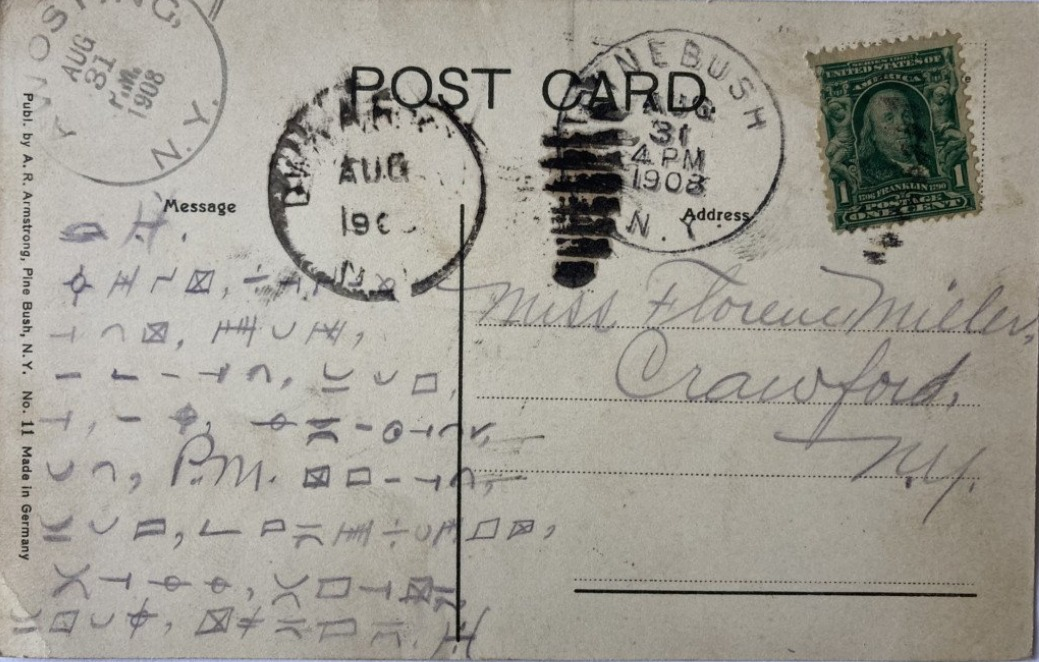
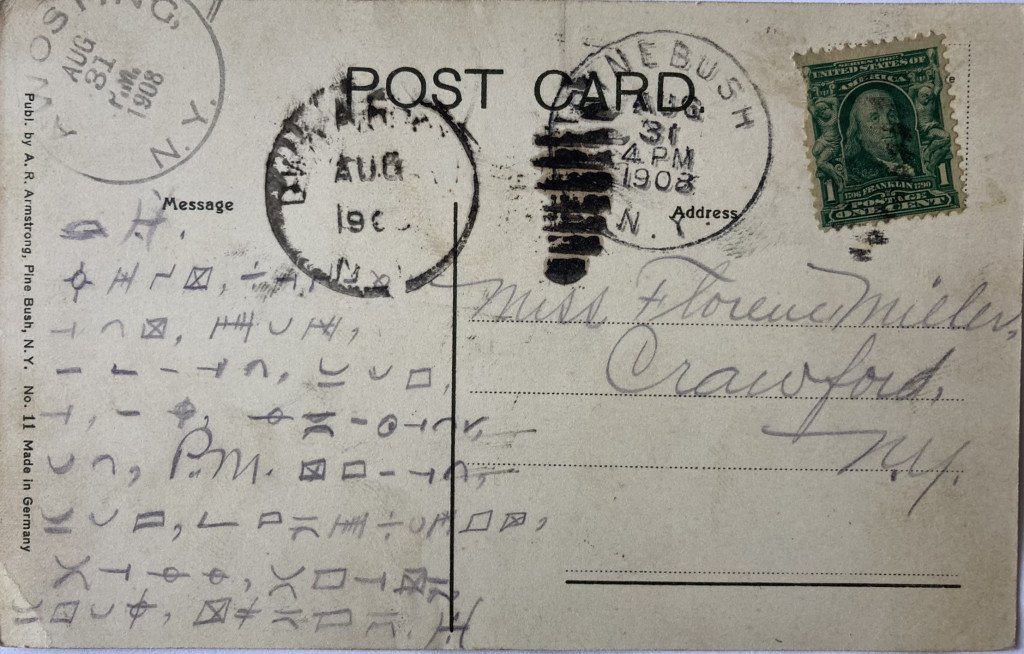
Pine Bush 1908: use the original HCPortal scan of the card
Claude-Session: https://claude.ai/code/session_014JUeTw49hesDgPSExudDny

diff --git a/pinebush-1908/sources/README.md b/pinebush-1908/sources/README.md
@@ -3,7 +3,7 @@
 The card: HCPortal, record 55, "Encrypted postcard from 1908 - On The Bend, Pine Bush, N. Y."
 https://crypto.hcportal.eu/dashboard/cryptograms/55 (image on the Attachments tab; private collection).
 
-`postcard-back.jpg`: the back of the card, the HCPortal image, supplied by Jason Benham, 22 Nov 2026.
+`postcard-back.jpg`: the back of the card, the HCPortal scan (1024 × 654 pixels), supplied by Jason Benham, 22 Nov 2026.
 
 Transcribed from the HCPortal image (1024 × 654 pixels) on 22 November 2026.
 
